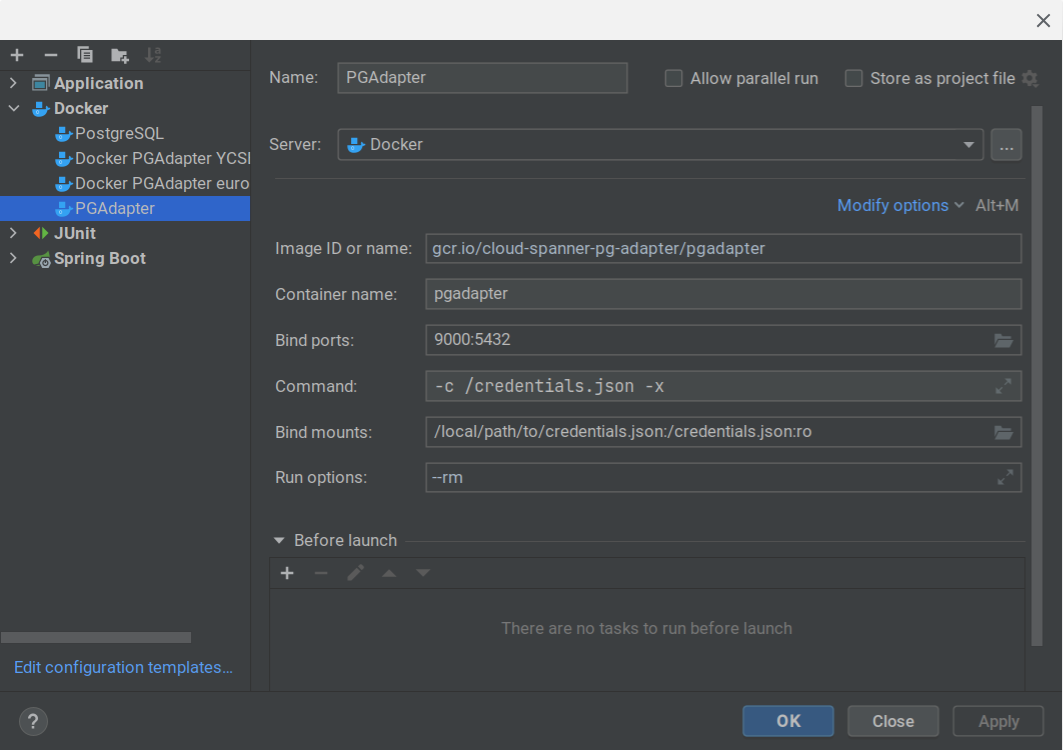
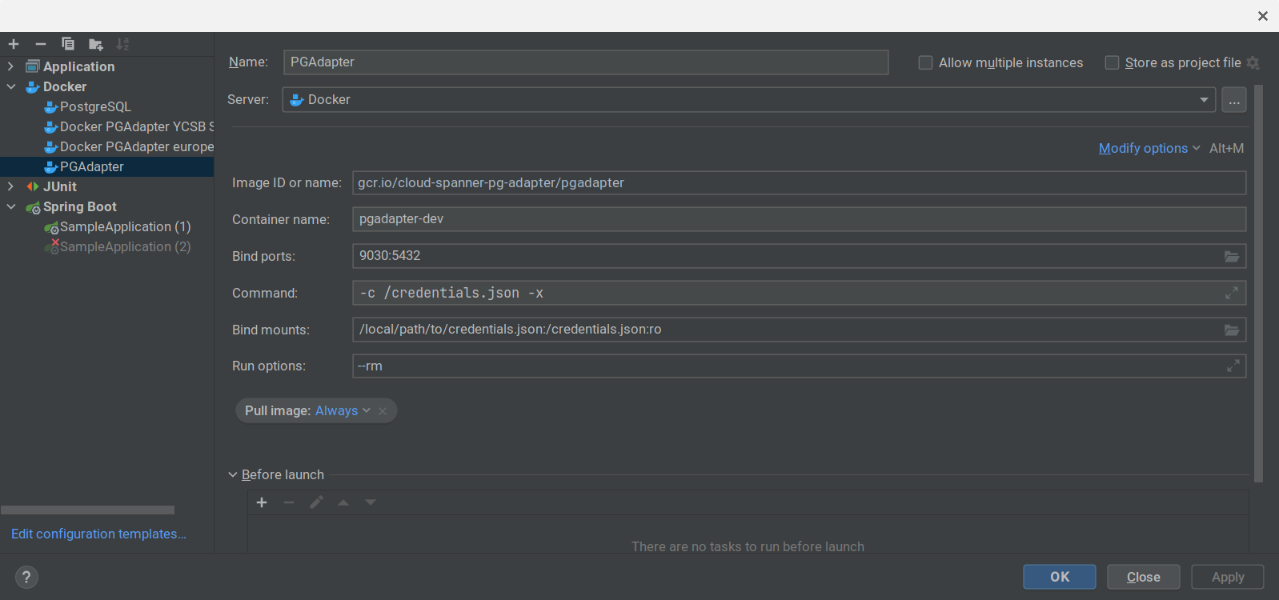
fix: prevent port clashes + use consistent PG versions in tests

diff --git a/local-postgresql-copy/README.md b/local-postgresql-copy/README.md
@@ -33,7 +33,7 @@ SPANNER_INSTANCE=my-instance
 SPANNER_DATABASE=my-database
 ```
 
-Also ensure that the `PGADAPTER_HOST_PORT` (default 9001) and `POSTGRES_HOST_PORT` (default 9002)
+Also ensure that the `PGADAPTER_HOST_PORT` (default 9031) and `POSTGRES_HOST_PORT` (default 9032)
 are not in use by any other services on your local machine, and change the values if necessary.
 
 2. Start the Docker containers.
@@ -119,9 +119,10 @@ docker exec postgres /copy-data.sh
 
 ## Connecting to the containers
 
-The `docker compose` file starts two containers:
-1. `pgadapter`: This container by default exposes its PostgreSQL port on local port 9001.
-2. `postgres`: This container by default exposes its PostgreSQL port on local port 9002.
+The `docker compose` file starts two containers (you may need to change the container names in the
+docker-compose.yml file if you already have containers with conflicting names):
+1. `pgadapter`: This container by default exposes its PostgreSQL port on local port 9031.
+2. `postgres`: This container by default exposes its PostgreSQL port on local port 9032.
 
 You can change these ports in the `.env` file if they clash with anything you have running on your
 local machine. You can also remove the port mapping in the `docker-compose.yml` file if you do not
@@ -130,13 +131,13 @@ need to access the containers from your local machine.
 Connect to PGAdapter with `psql` with this command on your local machine:
 
 ```shell
-psql -h localhost -p 9001 -d my-database
+psql -h localhost -p 9031 -d my-database
 ```
 
 Connect to the local PostgreSQL database with `psql` with this command on your local machine:
 
 ```shell
-PGPASSWORD=secret psql -h localhost -p 9002 -d my-database -U postgres
+PGPASSWORD=secret psql -h localhost -p 9032 -d my-database -U postgres
 ```
 
 ## pg_dump and pg_restore
@@ -239,7 +240,7 @@ Follow these steps to copy a Cloud Spanner database to a CloudSQL PostgreSQL dat
 
 ```shell
 export PGADAPTER_HOST=localhost
-export PGADAPTER_PORT=9001
+export PGADAPTER_PORT=9031
 
 export GOOGLE_APPLICATION_CREDENTIALS=/local/path/to/credentials.json
 export GOOGLE_CLOUD_PROJECT=my-project
@@ -259,7 +260,7 @@ export POSTGRES_DB=my-database
 ```shell
 docker pull gcr.io/cloud-spanner-pg-adapter/pgadapter
 docker run \
-  --rm -d -p 9001:5432 \
+  --rm -d -p 9031:5432 \
   -v ${GOOGLE_APPLICATION_CREDENTIALS}:/credentials.json:ro \
   gcr.io/cloud-spanner-pg-adapter/pgadapter \
   -p ${GOOGLE_CLOUD_PROJECT} -i ${SPANNER_INSTANCE} \
@@ -332,5 +333,5 @@ spanner_restore_database="new-database" ./run-pg-restore.sh
 
 If the `docker compose --env-file .env up -d` command seems to hang while starting the containers,
 it is possible that you have a port mapping conflict. The default port mapping is to map
-PGAdapter to port `9001` on the local machine and  PostgreSQL to port `9002`. Change these defaults
+PGAdapter to port `9031` on the local machine and  PostgreSQL to port `9032`. Change these defaults
 in the `.env` file if you already have other services running on these port numbers.

diff --git a/docs/intellij.md b/docs/intellij.md
@@ -21,11 +21,12 @@ First create a run configuration for PGAdapter:
 2. Fill in the following:
 3. Name: `PGAdapter`
 4. Image ID or name: `gcr.io/cloud-spanner-pg-adapter/pgadapter`
-5. Container name: `pgadapter`
-6. Bind port: `9000:5432` (or choose any other available local port that you want to use)
+5. Container name: `pgadapter-dev`
+6. Bind port: `9030:5432` (or choose any other available local port that you want to use)
 7. Command: `-c /credentials.json -x`
 8. Bind mounts: `/local/path/to/credentials.json:/credentials.json:ro` (Change the local path to match your own credentials or a local service account file)
 9. Run options: `--rm` (optional)
+10. Pull image: `Always` (optional)
 
 ![PGAdapter Docker Run Configuration](img/pgadapter-docker-container.png?raw=true "PGAdapter Docker Run Configuration")
 
@@ -46,7 +47,7 @@ PostgreSQL driver. Open the Database tool window by clicking on the menu item
 Fill in the following properties in the window:
 
 1. Host: `localhost` (assuming you are running PGAdapter on your local machine)
-2. Port: `9000` (change if you started PGAdapter on a different port than 9000)
+2. Port: `9030` (change if you started PGAdapter on a different port than 9030)
 3. Authentication: `No auth`
 4. Database: `projects/my-project/instances/my-instance/databases/my-database`
 5. You now need to instruct IntelliJ to use the standard JDBC metadata methods to introspect the database. Click on the Advanced tab for this.
